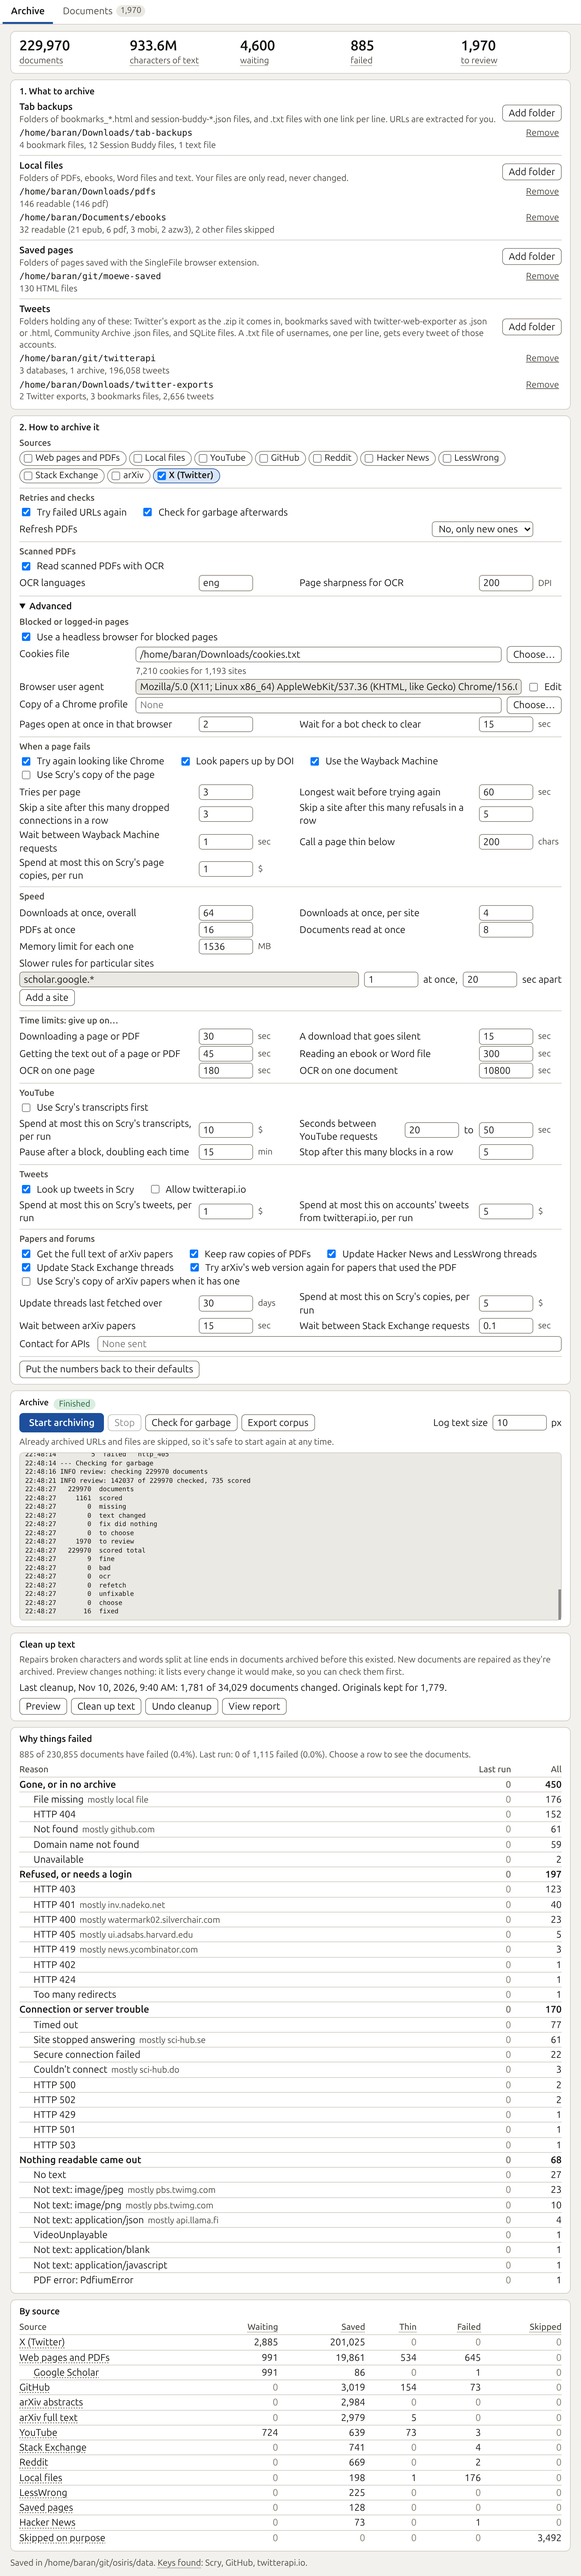
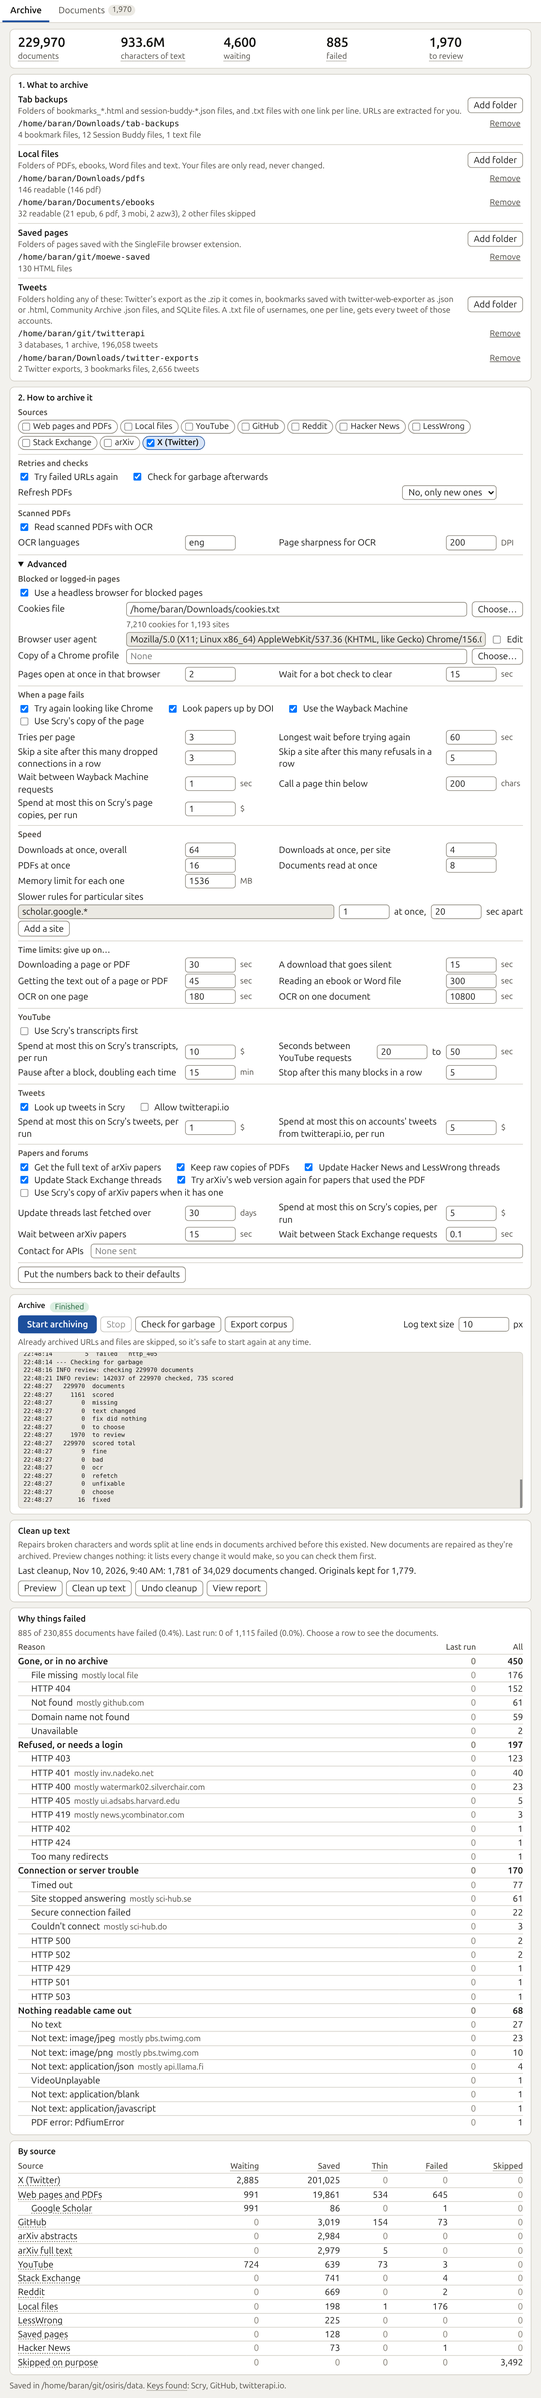
screenshot.png is 1676 pixels wide from now on, twice the width of GitHub's README column, so GitHub no longer blurs it by an uneven shrink

diff --git a/tools/screenshot.py b/tools/screenshot.py
@@ -10,10 +10,11 @@ summaries and log are laid over what the server answers. So the picture shows th
 any machine, and the page around it is whatever osiris/ui.html is now. Nothing is read from your
 own archive or settings.
 
-The picture is the whole Archive tab in a window 900 px wide, drawn at two pixels to the pixel,
-which makes it 1800 pixels wide. It ends as far under the last line as the first card is under the
-header. Text is antialiased in grey: the coloured fringes a desktop browser gives text turn into
-coloured speckle when GitHub draws the picture smaller than it is.
+The picture is the whole Archive tab in a window 900 px wide, drawn 1676 pixels wide. GitHub's
+README column is 838 px wide, so it shows that width pixel for pixel on a 2x screen and exactly
+halved on a 1x one. The picture ends as far under the last line as the first card is under the
+header. Text is antialiased in grey, because the coloured fringes a desktop browser gives text
+turn into coloured speckle when GitHub draws the picture smaller than it is.
 
 It needs Playwright's Chromium, as `osiris run --render` does, and the fonts screenshot.json
 names. It stops without writing anything if the browser drew the page in other fonts or the page
@@ -226,7 +227,7 @@ async def run(args: argparse.Namespace) -> None:
             address = f"http://127.0.0.1:{runner.addresses[0][1]}/"
             await save_config(address, data["config"])
             window = data["window"]
-            png = await take(address, window, args.wide / window["width"] if args.wide else window["scale"], conf, args.lcd)
+            png = await take(address, window, (args.wide or window["picture_width"]) / window["width"], conf, args.lcd)
         finally:
             await runner.cleanup()
     from PIL import Image
@@ -242,9 +243,8 @@ def main() -> None:
     parser.add_argument("--data", default=str(DATA), help="the archive to show (default: screenshot.json beside this script)")
     parser.add_argument("--page", help="another copy of ui.html to take the picture of, such as an older one to compare with")
     parser.add_argument("--wide", type=int, metavar="PIXELS",
-                        help="how many pixels wide to make the picture (default: 1800). The window stays 900 px wide, so "
-                             "the page looks the same. GitHub's README column is 838 px wide: 1676 is drawn there as it "
-                             "is on a 2x screen and halved exactly on a 1x one, which is sharper than 1800")
+                        help="how many pixels wide to make the picture (default: 1676, twice the 838 px of GitHub's "
+                             "README column). The window stays 900 px wide, so the page looks the same")
     parser.add_argument("--fonts", metavar="FOLDER", help="a folder of font files to use as well as the installed ones")
     parser.add_argument("--lcd", action="store_true", help="antialias text for an LCD's coloured subpixels, as a desktop browser does")
     asyncio.run(run(parser.parse_args()))

diff --git a/README.clank.md b/README.clank.md
@@ -529,8 +529,8 @@ One test prints a page to PDF with Chrome, and is skipped if there's none.
 
 The picture shows the same archive every time, on any machine. Its folders, settings, numbers and log come from `tools/screenshot.json`, and nothing is read from your own archive or settings. To change what a box or a table shows, change that file. A setting the page has gained since shows its default. Everything the picture shows was copied from the picture it replaced. Two things in the file that the picture can't show are made up, which are the log lines above the ones in view and the counts beside the sites in `hosts`. The command warns about any name in the file that the server no longer knows, and a test does the same.
 
-The page is drawn in a window 900 px wide at two pixels to the pixel, so the picture is 1800 pixels wide. It ends as far under the last line as the first card is under the tabs. Two runs on the same machine give the same file, byte for byte. Another machine's browser can draw a few pixels differently.
+The page is drawn in a window 900 px wide, and the picture is 1676 pixels wide. It ends as far under the last line as the first card is under the tabs. Two runs on the same machine give the same file, byte for byte. Another machine's browser can draw a few pixels differently.
 
 It needs Playwright's Chromium, which `pip install -e .[render]` and `playwright install chromium` set up, and the two fonts the file names, Ubuntu Sans and DejaVu Sans Mono. An Ubuntu 24.04 desktop has both. Elsewhere, `--fonts FOLDER` adds a folder of font files. The command stops without writing anything if the browser drew the page in other fonts.
 
-GitHub serves the file unchanged but shows it 838 px wide, so every browser shrinks it. The picture's text is antialiased in grey for that reason, since the coloured fringes of ordinary desktop text turn into coloured speckle when shrunk. `--lcd` brings the fringes back. `--wide 1676` makes the picture 1676 pixels wide with the same page in it, which GitHub shows pixel for pixel on a 2x screen and exactly halved on a 1x one, and that is sharper than 1800.
+GitHub serves the file unchanged but shows it 838 px wide. The picture is twice that width, so GitHub shows it pixel for pixel on a 2x screen and exactly halved on a 1x one, which keeps the text sharp. `--wide PIXELS` makes it another width with the same page in it. The picture's text is antialiased in grey, since the coloured fringes of ordinary desktop text turn into coloured speckle when shrunk. `--lcd` brings the fringes back.
